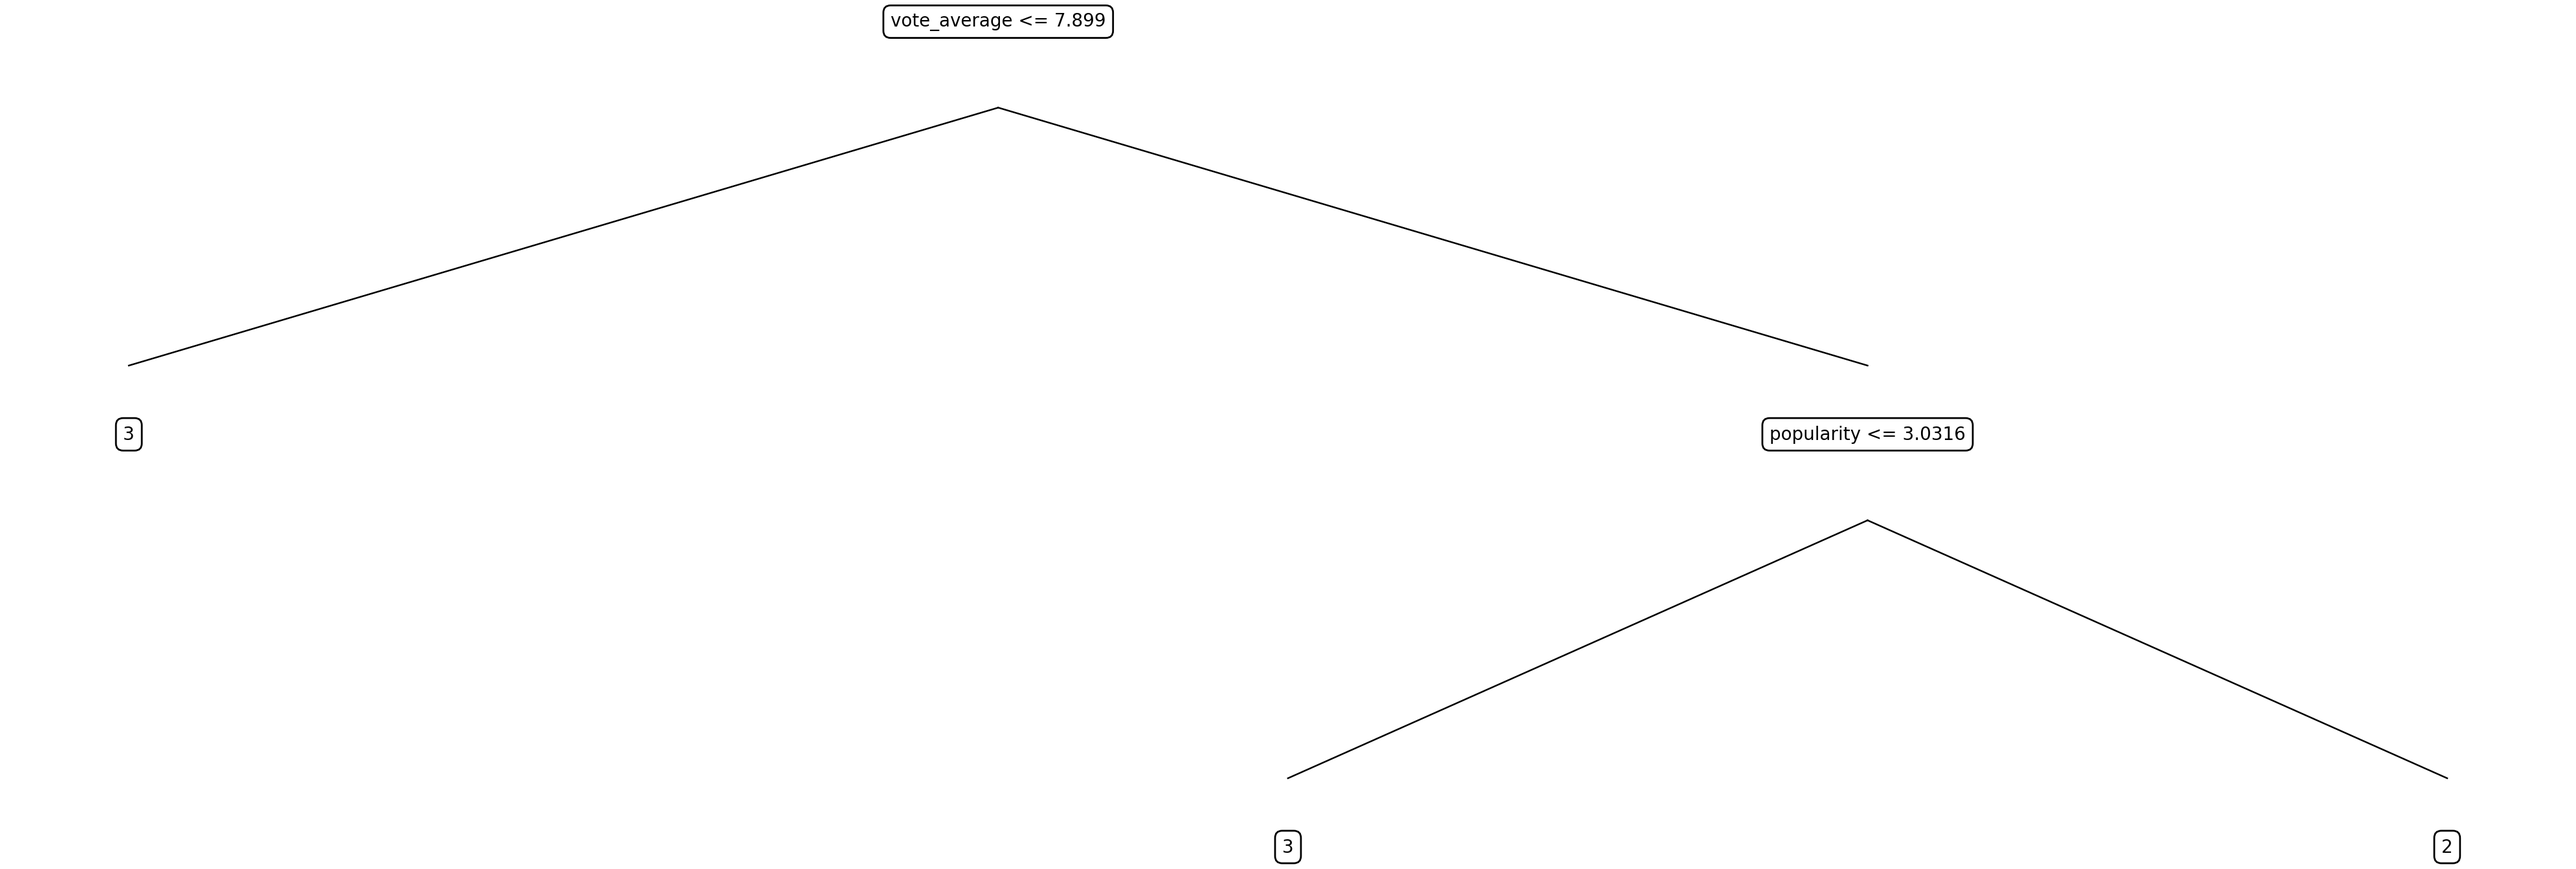
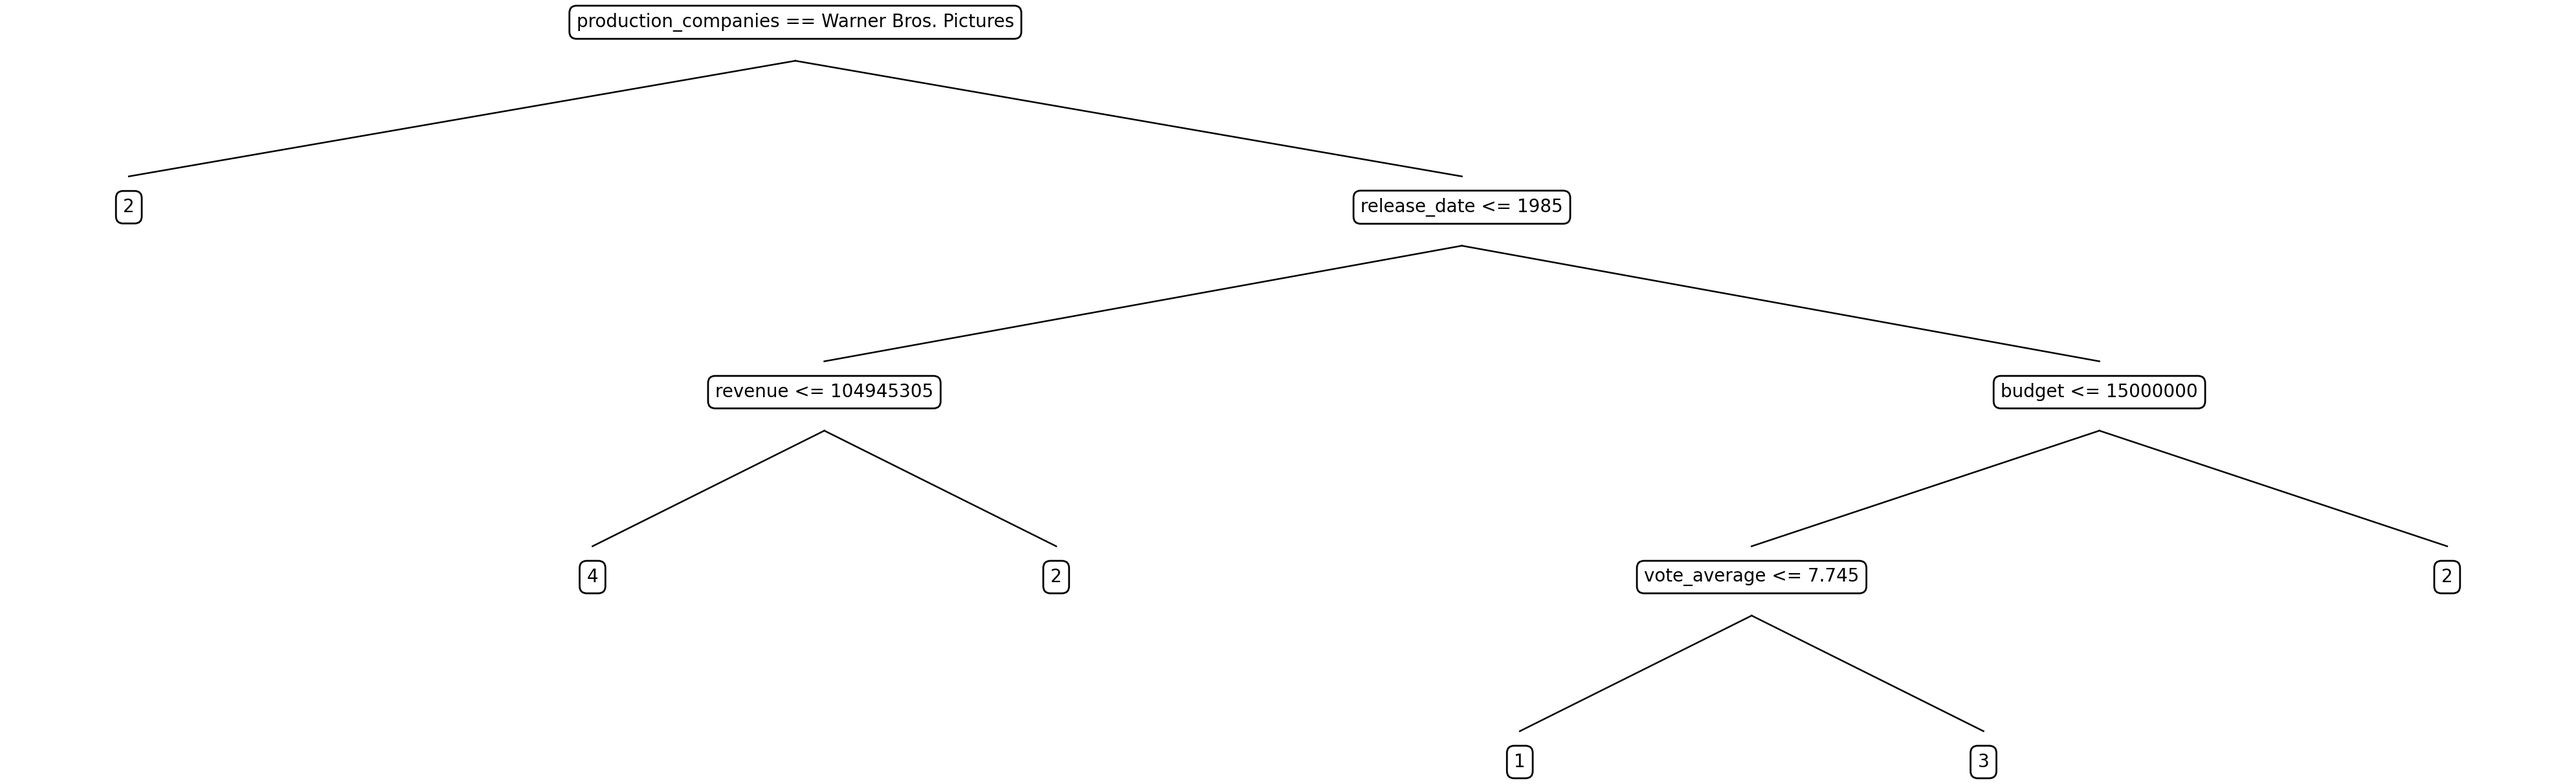
Replace tree picture for second approach

diff --git a/UM-ZAD2-DECISION-TREE/main.py b/UM-ZAD2-DECISION-TREE/main.py
@@ -52,12 +52,12 @@ def experiment(is_forest=False):
             classifier_per_person[person] = classifier
             accuracy_per_person.append(accuracy)
             soft_accuracy_per_person.append(soft_accuracy)
-            logging.info(f"Processed - {idx + 1}/{len(person_data_list)} | Person: {person}, accuracy: {accuracy}, soft_accuracy: {soft_accuracy} - {classifier_type}")
+            logging.info(f"Processed - {idx + 1}/{len(person_data_list)} | Person: {person}, accuracy: {accuracy}, soft_accuracy: {soft_accuracy}, depth: {classifier.depth()} - {classifier_type}")
 
     logging.info(f"Accuracy per person (mean): {np.mean(accuracy_per_person):.2f},  soft_accuracy per person (mean): {np.mean(soft_accuracy_per_person):.2f}")
 
     if not is_forest:
-        draw_tree_png(classifier_per_person[1102].root, filename=f"tree.png")
+        draw_tree_png(classifier_per_person[92].root, filename=f"tree.png")
 
     filename = f"submission_{classifier_type}"
     RatingPrediction('../data/task.csv').submit_ratings_predictions(classifier_per_person, features, filename)
